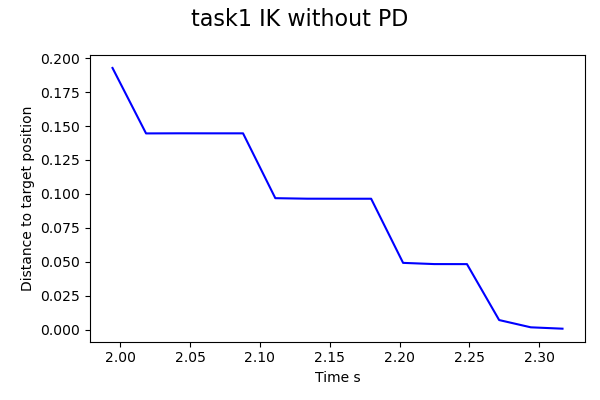
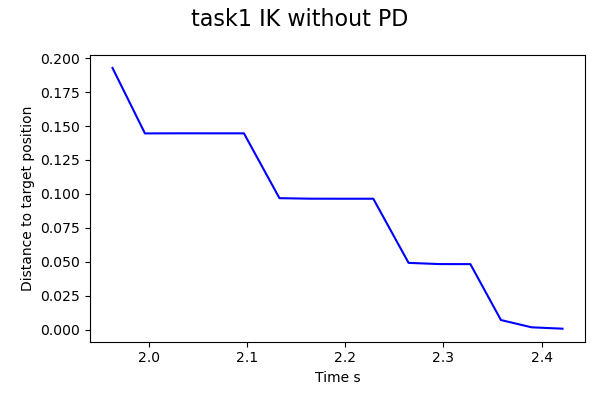
update

diff --git a/core/Pybullet_Simulation.py b/core/Pybullet_Simulation.py
@@ -452,11 +452,12 @@ kukaId
         # all IK iterations (optional).
 
         #initial parameters
-        iterNum = 10
+        iterNum = 13
         eff_pos = self.getJointPosition(jointName=endEffector).T[0]  # dim: 3 * 1
         self.plot_distance_dp.append(np.linalg.norm(eff_pos - targetPosition))
         self.plot_time_dp.append(time.process_time())
 
+        # inverse kinematics
         current_q = []
         for joint_name in self.chain_dict[endEffector]:
             if joint_name == 'RHAND' or joint_name == 'LHAND':
@@ -469,27 +470,26 @@ kukaId
         for step in range(iterNum):
             current_target = step_positions[step]
 
-            for _ in range(maxIter):
-                print('current: ', eff_pos)
-                print('target: ', targetPosition)
-                dy = targetPosition - eff_pos
-    
-                J = self.jacobianMatrix(endEffector)
-                d_theta = np.linalg.pinv(J).dot(dy)
+            # for _ in range(maxIter):
+            dy = current_target - eff_pos
+            J = self.jacobianMatrix(endEffector)
+            d_theta = np.linalg.pinv(J).dot(dy)
 
-                current_q = current_q + d_theta
+            current_q += d_theta
 
-                # moving by DP
+            # moving by DP
+            for _ in range(80):
                 self.tick(endEffector, current_q)
 
-                eff_pos = self.getJointPosition(jointName=endEffector).T[0]
+            # check the position of effector after moving with PD
+            eff_pos = self.getJointPosition(jointName=endEffector).T[0]
 
-                print(np.linalg.norm(eff_pos - targetPosition))
+            print(np.linalg.norm(eff_pos - current_target))
 
-                self.plot_distance_dp.append(np.linalg.norm(eff_pos - targetPosition))
-                self.plot_time_dp.append(time.process_time())
-                if np.linalg.norm(eff_pos - targetPosition) < threshold:
-                    break
+            self.plot_distance_dp.append(np.linalg.norm(eff_pos - targetPosition))
+            self.plot_time_dp.append(time.process_time())
+                # if np.linalg.norm(eff_pos - current_target) < threshold:
+                #     break
 
         return np.array(self.plot_time_dp), np.array(self.plot_distance_dp)
 
